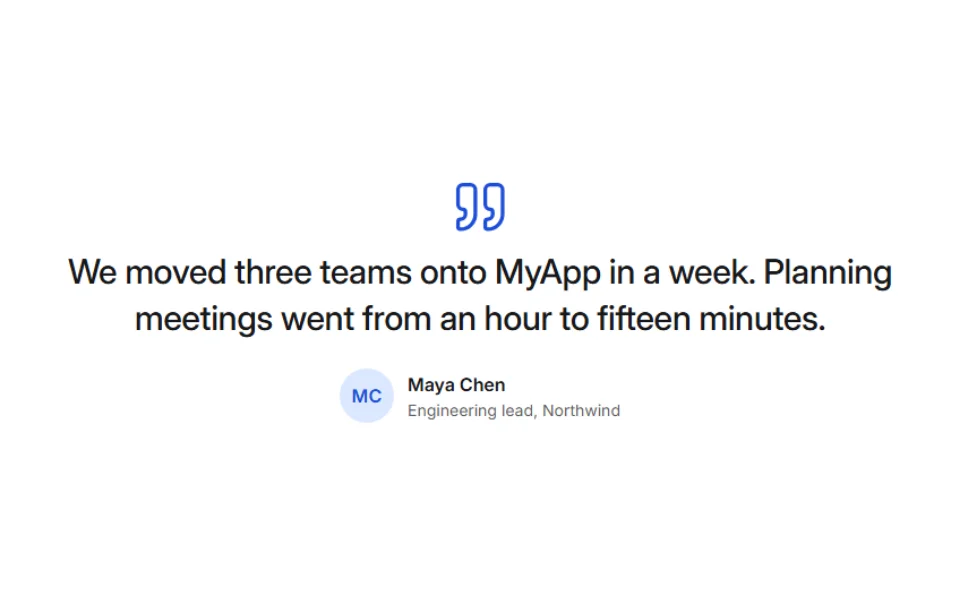
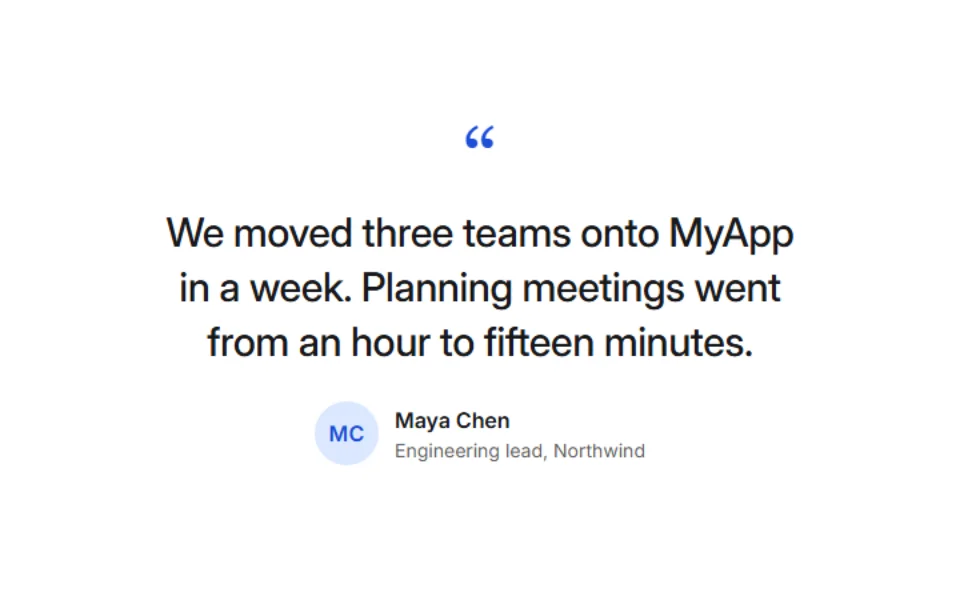
Blockquote's quote mark is a filled typographic quote; Testimonials to the design
QuoteMark was the outline quote icon, bigger and heavier than the design's: it's now a serif
opening quote in the accent text color, about twice the quote's size and cropped to its ink. A
pull quote has 24px between its mark, the quote and the person. Testimonials' quote keeps to
40rem, so it breaks over three balanced lines as the design does.

Changed region(s): [[0.0625, 0.3, 0.9375, 0.78], [0.4688, 0.21, 0.5312, 0.24]]

diff --git a/src/IzzyBlazor.Core/Styles/blockquote.css b/src/IzzyBlazor.Core/Styles/blockquote.css
@@ -77,11 +77,30 @@
     border-radius: var(--ib-radius-md) 0 0 var(--ib-radius-md);
   }
 
+  /* A typographic opening quote, filled and in a serif, sized off the quote and cropped to its ink. */
   .ib-blockquote-mark {
     display: block;
+    height: 0.45em;
     margin-block-end: var(--ib-space-1);
+    overflow: visible;
     color: var(--ib-quote-mark);
-    --ib-icon-size: 1.75em;
+    font-family: Georgia, "Times New Roman", serif;
+    font-size: 2.125em;
+    font-weight: 400;
+    line-height: 0.6;
+  }
+
+  /* A pull quote breathes: 24px between its mark, the quote and who said it. */
+  .ib-blockquote-pull {
+    gap: var(--ib-space-6);
+  }
+
+  .ib-blockquote-pull .ib-blockquote-mark {
+    margin-block-end: var(--ib-space-6);
+  }
+
+  .ib-blockquote-pull .ib-blockquote-person {
+    margin-block-start: 0;
   }
 
   .ib-blockquote-caption {
